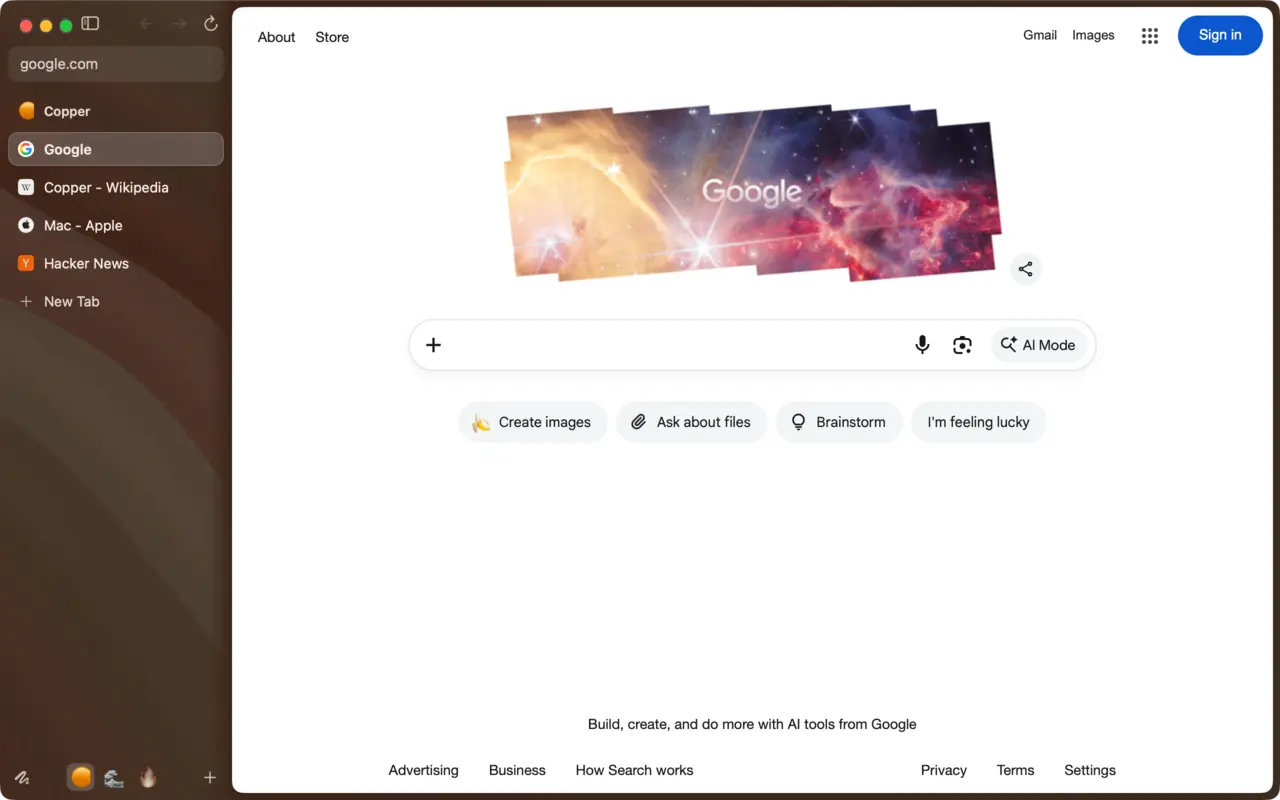
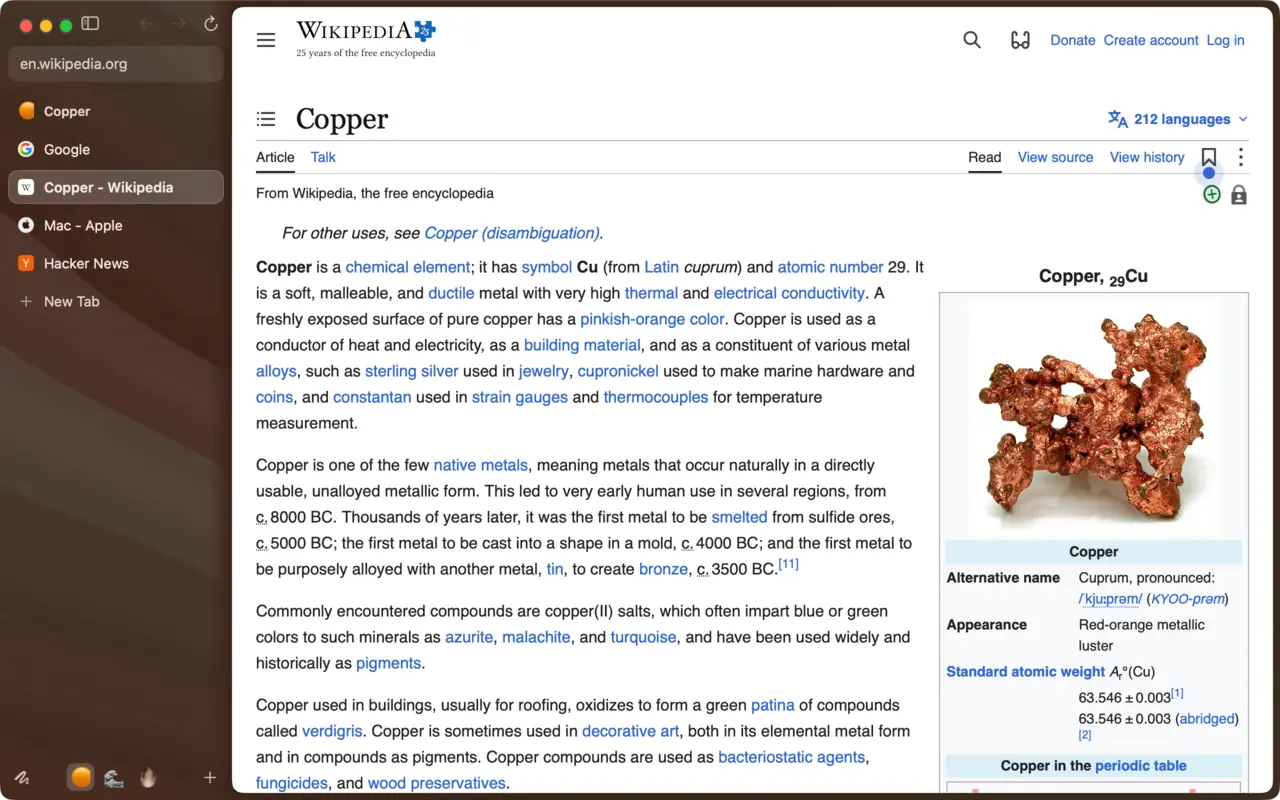
Site: council round 1 fixes
- Hero window now shows Wikipedia's Copper article (was google.com), so the page does not lead with another brand.
- Sidebar recordings: no letterbox; one unlabelled-chrome control for the three (click, Space, Enter), named Pause/Play; the tile link moved to its heading.
- Recordings are role=button with a live Pause/Play name.
- Two recordings sat 40 px inside the grid (default figure margin); reset.
- Phone hero: darker veil and a solid quip chip for contrast over the art.
- Privacy copy and table now name what Jev sends to your model provider.
- Commands wrap at slashes and keep '| sh' together; glows fade before the edge; smaller posters.

diff --git a/site/index.html b/site/index.html
@@ -148,7 +148,8 @@ em.g, h1 em, h2 em, .t h3 em {
   background: var(--surface); border: 1px solid var(--line);
   font: 14px/1.45 var(--mono); color: var(--ink);
 }
-.cmd code { flex: 1; min-width: 0; overflow-wrap: anywhere; }
+.cmd code { flex: 1; min-width: 0; overflow-wrap: break-word; }
+.nw { white-space: nowrap; }
 .cmd code::before { content: "$ "; color: var(--ink-2); }
 .cmd .nw { white-space: nowrap; }
 .cmd.plain code::before { content: none; }
@@ -381,7 +382,7 @@ kbd {
 .tools { display: flex; flex-wrap: wrap; gap: 6px; margin-top: 4px; }
 .tools code { font-size: 13px; }
 .scenario { margin-top: clamp(56px, 7vw, 88px); }
-.scenario > .reel { margin-top: 28px; }
+.scenario > .reel-fig { margin-top: 28px; }
 .scenario-body { display: grid; grid-template-columns: minmax(0, .92fr) minmax(0, 1.08fr); gap: clamp(28px, 5vw, 64px); align-items: start; margin-top: 36px; }
 .story { display: grid; gap: 14px; }
 .story > p { color: var(--ink-2); font-size: 16px; }
@@ -518,10 +519,10 @@ html:not(.js) .dl-panel[hidden] { display: block; }
 }
 .hero-stage::after {
   content: ""; position: absolute; inset: 0; z-index: -2;
-  background: radial-gradient(50% 40% at 0% 60%, var(--glow1), transparent 70%), radial-gradient(45% 40% at 100% 85%, var(--glow2), transparent 70%);
+  background: radial-gradient(50% 40% at 0% 60%, var(--glow1), transparent 70%), radial-gradient(45% 40% at 100% 62%, var(--glow2), transparent 70%);
 }
 .hero {
-  --bleed: clamp(0px, (100vw - var(--w)) / 2 - 24px, 300px);
+  --bleed: clamp(0px, (100vw - var(--w)) / 2 - 56px, 280px);
   display: grid; grid-template-columns: minmax(0, 29rem) minmax(0, 1fr); grid-template-areas: "copy shot" "meta shot"; column-gap: clamp(28px, 3.2vw, 44px);
   padding-top: clamp(44px, 8vh, 96px);
 }
@@ -559,7 +560,7 @@ html:not(.js) .dl-panel[hidden] { display: block; }
   background: var(--tile); box-shadow: inset 0 1px 0 rgba(255, 255, 255, .06);
   color: var(--ink); text-decoration: none; transition: border-color .2s ease, transform .2s cubic-bezier(.23, 1, .32, 1);
 }
-@media (hover: hover) and (pointer: fine) { a.t:hover { border-color: var(--line-2); transform: translateY(-2px); } }
+@media (hover: hover) and (pointer: fine) { a.t:hover, .t-spaces:hover { border-color: var(--line-2); transform: translateY(-2px); } }
 a.t:active { transform: scale(.99); }
 .t h3 { font: 650 26px/1.12 var(--display); letter-spacing: -.022em; max-width: 20em; position: relative; }
 .t p { color: var(--ink-2); font-size: 15px; line-height: 1.42; margin-top: 8px; max-width: 30em; position: relative; }
@@ -574,7 +575,11 @@ a.t:active { transform: scale(.99); }
 .t-spaces { grid-column: 1 / 7; grid-row: 1 / 3; padding: 34px 36px 0; background: linear-gradient(160deg, rgba(255, 138, 76, .16), rgba(255, 138, 76, .02) 45%), var(--tile); }
 .t-spaces h3 { font-size: clamp(30px, 1.2rem + 1.6vw, 44px); line-height: 1.04; letter-spacing: -.03em; max-width: 11em; }
 .t-spaces p { font-size: 16.5px; max-width: 26em; }
-.sides { display: flex; gap: 14px; margin-top: 28px; }
+.sides { position: relative; z-index: 2; display: flex; align-items: flex-start; gap: 14px; margin-top: 28px; cursor: pointer; border-radius: 14px 14px 0 0; }
+.sides:focus-visible { outline-offset: -3px; }
+.t-spaces h3 a { color: inherit; text-decoration: none; }
+.t-spaces h3 a::after { content: ""; position: absolute; inset: 0; z-index: 1; }
+.t-spaces h3 { position: static; }
 .sides video { width: calc((100% - 28px) / 3); border-radius: 14px 14px 0 0; border: 1px solid var(--line); box-shadow: var(--shadow); background: #15100D; }
 .sides video:nth-child(2) { margin-top: 22px; }
 .sides video:nth-child(3) { margin-top: 44px; }
@@ -589,7 +594,7 @@ a.t:active { transform: scale(.99); }
 .otp { position: absolute; top: 22px; right: 22px; display: flex; gap: 5px; }
 .otp span { width: 26px; height: 34px; border-radius: 7px; background: var(--term-bg); border: 1px solid rgba(95, 227, 204, .45); display: grid; place-items: center; font: 600 17px/1 var(--mono); color: #5FE3CC; }
 .t-cloud { grid-column: 1 / 6; grid-row: 3; background: linear-gradient(20deg, rgba(61, 214, 190, .13), rgba(61, 214, 190, .01) 60%), var(--tile); }
-.t-term { margin-top: auto; padding: 14px 16px; border-radius: 12px; background: var(--term-bg); border: 1px solid rgba(255, 255, 255, .06); font: 12.5px/1.6 var(--mono); color: var(--term-ink); overflow-wrap: anywhere; }
+.t-term { margin-top: auto; padding: 14px 16px; border-radius: 12px; background: var(--term-bg); border: 1px solid rgba(255, 255, 255, .06); font: 12.5px/1.6 var(--mono); color: var(--term-ink); overflow-wrap: break-word; }
 .t-term .d { color: var(--term-dim); }
 .t-term .a { color: #5FE3CC; }
 .t-canvas { grid-column: 6 / 10; grid-row: 3; background: linear-gradient(160deg, rgba(255, 192, 122, .10), rgba(255, 192, 122, .01) 55%), var(--tile); }
@@ -617,7 +622,7 @@ h2, .sec-head h2, .sec-head .h2 { font-size: clamp(2.1rem, 1.3rem + 2.6vw, 3.3re
 .feature-copy > p + p { margin-top: -4px; }
 .feature-copy .cmd { margin-top: 4px; }
 
-.media { margin: 0; }
+.media, .reel-fig { margin: 0; }
 .frame, .reel {
   position: relative; border-radius: 20px; overflow: hidden; background: #15100D;
   box-shadow: 0 0 0 1px var(--line), var(--shadow);
@@ -648,7 +653,7 @@ h2, .sec-head h2, .sec-head .h2 { font-size: clamp(2.1rem, 1.3rem + 2.6vw, 3.3re
 
 /* ---------- outro (stage) ---------- */
 .outro { margin-top: clamp(96px, 11vw, 144px); padding-block: clamp(80px, 10vw, 128px); overflow: hidden; }
-.outro::before { content: ""; position: absolute; inset: 0; z-index: -1; background: radial-gradient(45% 60% at 0% 100%, var(--glow1), transparent 70%), radial-gradient(40% 60% at 100% 0%, var(--glow2), transparent 70%); }
+.outro::before { content: ""; position: absolute; inset: 0; z-index: -1; background: radial-gradient(45% 60% at 0% 100%, var(--glow1), transparent 70%), radial-gradient(40% 60% at 100% 28%, var(--glow2), transparent 70%); }
 .outro .feature-copy > p { font-size: 1.15rem; }
 .repos { display: flex; flex-wrap: wrap; gap: 8px; list-style: none; margin: 4px 0 0; padding: 0; }
 .repos a { display: inline-flex; align-items: center; min-height: 40px; padding: 0 14px; border-radius: 10px; border: 1px solid var(--line-2); background: var(--tile); font: 500 14px/1.3 var(--mono); color: #5FE3CC; text-decoration: none; overflow-wrap: anywhere; transition: border-color .15s ease; }
@@ -724,7 +729,8 @@ footer .wrap { display: flex; flex-wrap: wrap; align-items: center; justify-cont
   .hero-shot { margin-top: 32px; }
   .hero .meta { display: flex; }
   .hero .hero-actions .cmd { display: none; }
-  .hero-stage::before { background: linear-gradient(180deg, rgba(12, 10, 9, .55), rgba(12, 10, 9, .8) 60%), url(assets/art-liquid.webp) 70% 0 / cover no-repeat; }
+  .hero-stage::before { background: linear-gradient(180deg, rgba(12, 10, 9, .78), rgba(12, 10, 9, .88) 60%), url(assets/art-liquid.webp) 70% 0 / cover no-repeat; }
+  .quip { background: rgba(20, 14, 10, .72); }
   .manifest li { grid-template-columns: 15px minmax(0, 1fr); }
   .manifest li small { grid-column: 2; text-align: left; }
   .hero-actions .btn { flex: 1 1 100%; justify-content: center; }
@@ -805,24 +811,25 @@ footer .wrap { display: flex; flex-wrap: wrap; align-items: center; justify-cont
       </div>
       </div>
       <picture class="hero-shot">
-        <source media="(max-width: 640px)" srcset="assets/copper-hero-sm.webp" width="1280" height="1120">
-        <img src="assets/copper-hero-1920.webp" srcset="assets/copper-hero-1280.webp 1280w, assets/copper-hero-1920.webp 1920w, assets/copper-hero-2560.webp 2560w" sizes="(max-width: 1100px) 92vw, 56vw" width="2560" height="1600" fetchpriority="high" decoding="async" alt="The Copper window. A sidebar in the Copper space's warm animated theme holds the address and four tabs: Google, Copper on Wikipedia, Mac on apple.com and Hacker News, with the three spaces along the bottom. The page fills the rest of the window, with no toolbar above it.">
+        <source media="(max-width: 640px)" srcset="assets/copper-hero-sm-720.webp 720w, assets/copper-hero-sm.webp 1280w" sizes="92vw" width="1280" height="1120">
+        <img src="assets/copper-hero-1920.webp" srcset="assets/copper-hero-1280.webp 1280w, assets/copper-hero-1920.webp 1920w" sizes="(max-width: 1100px) 92vw, 56vw" width="1920" height="1200" fetchpriority="high" alt="The Copper window on Wikipedia's article about copper. A sidebar in the Copper space's warm animated theme holds the address and four tabs: Google, Copper on Wikipedia, Mac on apple.com and Hacker News, with the three spaces along the bottom. The page fills the rest of the window, with no toolbar above it.">
       </picture>
       <p class="meta"><span>macOS 14 or later</span><span>Apple Silicon &amp; Intel</span><span>Windows &amp; Linux too</span><span>No account</span></p>
     </section>
 
-    <section class="wrap" aria-label="Copper at a glance">
+    <section class="wrap" aria-labelledby="glance-title">
+      <h2 class="sr" id="glance-title">Copper at a glance</h2>
       <div class="bento">
-        <a class="t t-spaces" href="#spaces">
+        <div class="t t-spaces">
           <span class="t-kick"><img src="assets/icon-96.webp" alt="" width="28" height="28">Copper for macOS</span>
-          <h3>Spaces with <em>animated sidebars.</em></h3>
+          <h3><a href="#spaces">Spaces with <em>animated sidebars.</em></a></h3>
           <p>Split view, ⌘K, folders, Favorites, Today and Saved. WebKit underneath, no account.</p>
           <span class="sides" aria-hidden="true">
             <video class="side" muted loop playsinline preload="none" width="336" height="840" poster="assets/side-copper.webp" data-src="assets/side-copper.mp4"></video>
             <video class="side" muted loop playsinline preload="none" width="336" height="840" poster="assets/side-patina.webp" data-src="assets/side-patina.mp4"></video>
             <video class="side" muted loop playsinline preload="none" width="336" height="840" poster="assets/side-ember.webp" data-src="assets/side-ember.mp4"></video>
           </span>
-        </a>
+        </div>
         <a class="t t-agents" href="#agents">
           <div>
             <h3>We draw where <em>your agents</em> go.</h3>
@@ -832,7 +839,7 @@ footer .wrap { display: flex; flex-wrap: wrap; align-items: center; justify-cont
         </a>
         <a class="t t-jev" href="#jev">
           <span class="t-big">200<small>ms</small></span>
-          <h3>Jev ultrafast, <em>your keys.</em></h3>
+          <h3>Jev, the agent inside. <em>Your keys.</em></h3>
           <ul class="chips"><li>Claude account</li><li>any OpenAI-compatible gateway</li></ul>
         </a>
         <a class="t t-bw" href="#bitwarden">
@@ -843,7 +850,7 @@ footer .wrap { display: flex; flex-wrap: wrap; align-items: center; justify-cont
         <a class="t t-cloud" href="#cloud">
           <h3>Run your own <em>Copper Cloud.</em></h3>
           <p>One Rust binary and Postgres. Syncs spaces, tabs, bookmarks and history between Macs.</p>
-          <span class="t-term" aria-hidden="true"><span class="d">$</span> curl -fsSL …/copper-cloud/main/install.sh | sudo sh<br><span class="d">Admin portal:</span> https://203.0.113.10/<br><span class="d">Access mode:</span> directory<br><span class="a">copper-cloud://203.0.113.10:443/#k=ck_…&amp;fp=…</span></span>
+          <span class="t-term" aria-hidden="true"><span class="d">$</span> curl -fsSL …/<wbr>copper-cloud/<wbr>main/<wbr>install.sh <span class="nw">| sudo sh</span><br><span class="d">Admin portal:</span> https://203.0.113.10/<br><span class="d">Access mode:</span> directory<br><span class="a">copper-cloud://203.0.113.10:443/#k=ck_…&amp;fp=…</span></span>
         </a>
         <a class="t t-canvas" href="#canvas">
           <h3>Multiplayer <em>canvas</em> in a tab.</h3>
@@ -933,7 +940,7 @@ footer .wrap { display: flex; flex-wrap: wrap; align-items: center; justify-cont
     <div class="quiet">
       <div class="sec-head">
         <h2 id="quiet-title">Quiet by default.</h2>
-        <p>No toolbar, no start page, no sidebar of suggestions, no account to sign into. The things people install extensions for are already here, each one keystroke away.</p>
+        <p>No toolbar, no start page, no feed of suggestions, no account to sign into. The things people install extensions for are already here, each one keystroke away.</p>
       </div>
       <figure class="reel-fig">
         <div class="reel">
@@ -985,7 +992,7 @@ footer .wrap { display: flex; flex-wrap: wrap; align-items: center; justify-cont
       </figure>
     </div>
     <div class="note-row">
-      <h3>Chrome extensions, without Chrome</h3>
+      <h3>Chrome extensions run here</h3>
       <p>Paste a Chrome Web Store link, or press Add on the extension's page. It runs on WebKit's own extension engine, the one Safari uses, and Copper fills in the Chrome APIs WebKit lacks. macOS&nbsp;15.4 or later.</p>
     </div>
   </section>
@@ -1167,7 +1174,7 @@ Jev said <span class="ok">DONE</span>, 96% sure
         <span class="kicker">Copper Cloud</span>
         <h2 id="cloud-title">Run your own <em>Copper Cloud.</em></h2>
         <p>Copper Cloud is the server half: one Rust binary and Postgres, installed with one command on any Linux machine, or with Terraform on AWS. It syncs spaces, tabs, bookmarks and history between your Macs and hosts live canvas rooms.</p>
-        <div class="cmd"><code>curl -fsSL https://raw.githubusercontent.com/copper-browser/copper-cloud/main/install.sh | sudo sh</code><button class="copy" type="button" data-copy="curl -fsSL https://raw.githubusercontent.com/copper-browser/copper-cloud/main/install.sh | sudo sh" aria-label="Copy the Copper Cloud install command"><svg class="i-copy" aria-hidden="true"><use href="#i-copy"/></svg><svg class="i-check" aria-hidden="true"><use href="#i-check"/></svg><span>Copy</span></button></div>
+        <div class="cmd"><code>curl -fsSL https://raw.githubusercontent.com/<wbr>copper-browser/<wbr>copper-cloud/<wbr>main/<wbr>install.sh <span class="nw">| sudo sh</span></code><button class="copy" type="button" data-copy="curl -fsSL https://raw.githubusercontent.com/copper-browser/copper-cloud/main/install.sh | sudo sh" aria-label="Copy the Copper Cloud install command"><svg class="i-copy" aria-hidden="true"><use href="#i-copy"/></svg><svg class="i-check" aria-hidden="true"><use href="#i-check"/></svg><span>Copy</span></button></div>
         <ul class="facts">
           <li><span><strong>Off until you turn it on,</strong> and it never carries passwords. You pick what syncs.</span></li>
           <li><span><strong>Pinned by its certificate.</strong> Copper shows the fingerprint before it sends anything.</span></li>
@@ -1185,7 +1192,7 @@ Jev said <span class="ok">DONE</span>, 96% sure
     <div class="sec-head">
       <span class="kicker">Privacy</span>
       <h2 id="privacy-title">On your Mac, unless you <em>say otherwise.</em></h2>
-      <p>The only things that leave your Mac are the pages you ask for, their icons, and one small request a day to see whether there is a newer version. Copper Cloud is the one exception, and it stays off until you link a server you run.</p>
+      <p>What leaves your Mac: the pages you ask for, their icons, and one small request a day to see whether there is a newer version. When you run Jev, what it reads on the page goes to the model provider you chose. Copper Cloud stays off until you link a server you run.</p>
     </div>
     <div class="never">
       <div><strong>No account</strong><span>Nothing to sign into with us. Copper Cloud accounts live on your own server.</span></div>
@@ -1202,6 +1209,7 @@ Jev said <span class="ok">DONE</span>, 96% sure
         <tr><th scope="row">Cookies and site data</th><td data-l="Where">WebKit's own store for the app</td><td data-l="Who">The sites that set them, as in any browser.</td></tr>
         <tr><th scope="row">Extensions</th><td data-l="Where">Unpacked in Copper's own folder, their data in WebKit's extension store</td><td data-l="Who">Each extension, within the permissions you accepted.</td></tr>
         <tr><th scope="row">Copper Cloud, only if you link it</th><td data-l="Where">The parts you switched on, on the instance you linked, encrypted at rest with your account's key</td><td data-l="Who">You, and that instance's operator.</td></tr>
+        <tr><th scope="row">Jev, only while it runs</th><td data-l="Where">The page's controls and your goal, sent to the model you picked: your Claude account or your gateway</td><td data-l="Who">You, and that provider.</td></tr>
         <tr><th scope="row">Anything else</th><td data-l="Where">Nowhere.</td><td data-l="Who">No one.</td></tr>
       </tbody>
     </table>
@@ -1222,7 +1230,7 @@ Jev said <span class="ok">DONE</span>, 96% sure
     <div class="dl-panel" id="dl-mac" role="tabpanel" aria-labelledby="dl-tab-here">
     <div class="notice" id="build-from-source">
       <p><strong>A notarized Mac build is coming very soon.</strong> For now, build Copper yourself from source. You need macOS 14 or later and Xcode 16.</p>
-      <div class="cmd"><code>git clone https://github.com/copper-browser/Copper.git &amp;&amp; cd Copper &amp;&amp; ./build.sh &amp;&amp; open build/Copper.app</code><button class="copy" type="button" data-copy="git clone https://github.com/copper-browser/Copper.git &amp;&amp; cd Copper &amp;&amp; ./build.sh &amp;&amp; open build/Copper.app" aria-label="Copy the build command"><svg class="i-copy" aria-hidden="true"><use href="#i-copy"/></svg><svg class="i-check" aria-hidden="true"><use href="#i-check"/></svg><span>Copy</span></button></div>
+      <div class="cmd"><code>git clone https://github.com/<wbr>copper-browser/<wbr>Copper.git &amp;&amp; cd Copper &amp;&amp; ./<wbr>build.sh &amp;&amp; open build/<wbr>Copper.app</code><button class="copy" type="button" data-copy="git clone https://github.com/copper-browser/Copper.git &amp;&amp; cd Copper &amp;&amp; ./build.sh &amp;&amp; open build/Copper.app" aria-label="Copy the build command"><svg class="i-copy" aria-hidden="true"><use href="#i-copy"/></svg><svg class="i-check" aria-hidden="true"><use href="#i-check"/></svg><span>Copy</span></button></div>
       <p>It builds Copper.app into the build folder and opens it. The downloads below work today too and are not notarized yet. <a href="https://github.com/copper-browser/Copper#building-it">Source and build notes on GitHub</a></p>
     </div>
     <div class="install">
@@ -1236,7 +1244,7 @@ Jev said <span class="ok">DONE</span>, 96% sure
       <div class="method">
         <h3>One-line installer</h3>
         <div class="method-body">
-          <div class="cmd"><code>curl -fsSL https://github.com/copper-browser/Copper/releases/latest/download/copper-install.sh | sh</code><button class="copy" type="button" data-copy="curl -fsSL https://github.com/copper-browser/Copper/releases/latest/download/copper-install.sh | sh" aria-label="Copy the installer command"><svg class="i-copy" aria-hidden="true"><use href="#i-copy"/></svg><svg class="i-check" aria-hidden="true"><use href="#i-check"/></svg><span>Copy</span></button></div>
+          <div class="cmd"><code>curl -fsSL https://github.com/<wbr>copper-browser/<wbr>Copper/<wbr>releases/<wbr>latest/<wbr>download/<wbr>copper-install.sh <span class="nw">| sh</span></code><button class="copy" type="button" data-copy="curl -fsSL https://github.com/copper-browser/Copper/releases/latest/download/copper-install.sh | sh" aria-label="Copy the installer command"><svg class="i-copy" aria-hidden="true"><use href="#i-copy"/></svg><svg class="i-check" aria-hidden="true"><use href="#i-check"/></svg><span>Copy</span></button></div>
           <p>The same build, without Homebrew.</p>
         </div>
       </div>
@@ -1284,7 +1292,7 @@ Jev said <span class="ok">DONE</span>, 96% sure
       <div class="method">
         <h3>One-line installer <small>Recommended</small></h3>
         <div class="method-body">
-          <div class="cmd"><code>curl -fsSL https://github.com/copper-browser/copper-linux/releases/latest/download/install.sh | sh</code><button class="copy" type="button" data-copy="curl -fsSL https://github.com/copper-browser/copper-linux/releases/latest/download/install.sh | sh" aria-label="Copy the Linux install command"><svg class="i-copy" aria-hidden="true"><use href="#i-copy"/></svg><svg class="i-check" aria-hidden="true"><use href="#i-check"/></svg><span>Copy</span></button></div>
+          <div class="cmd"><code>curl -fsSL https://github.com/<wbr>copper-browser/<wbr>copper-linux/<wbr>releases/<wbr>latest/<wbr>download/<wbr>install.sh <span class="nw">| sh</span></code><button class="copy" type="button" data-copy="curl -fsSL https://github.com/copper-browser/copper-linux/releases/latest/download/install.sh | sh" aria-label="Copy the Linux install command"><svg class="i-copy" aria-hidden="true"><use href="#i-copy"/></svg><svg class="i-check" aria-hidden="true"><use href="#i-check"/></svg><span>Copy</span></button></div>
           <p>x86_64 or aarch64. On Ubuntu 24.04+ and Debian 13+ it installs the <code class="inline">.deb</code> with apt, video codecs included; everywhere else a Flatpak for your user. Run it again to upgrade.</p>
         </div>
       </div>
@@ -1627,33 +1635,37 @@ Jev said <span class="ok">DONE</span>, 96% sure
     });
   })();
 
-  /* ---------- recordings: fetched when near, play in view, a click (or Space on a focused one) pauses, a still under reduced motion ---------- */
+  /* ---------- recordings: fetched when near, play in view, a still under reduced motion.
+     Each is a button with no chrome: a click, Space or Enter pauses or plays it, and its name says which. ---------- */
   var calm = window.matchMedia('(prefers-reduced-motion: reduce)');
   $$('video.loop, video.side').forEach(function (v) {
-    var seen = false, held = false;
+    var side = v.classList.contains('side'), ctl = side ? v.parentNode : v;   // the three sidebars share one control
+    var about = side ? '' : v.getAttribute('aria-label'), seen = false, user = '';
+    function name() { ctl.setAttribute('aria-label', (v.paused ? 'Play ' : 'Pause ') + (side ? 'the sidebar recordings' : 'the recording: ' + about)); }
     function arm() {
       if (v.dataset.armed) return;
       v.dataset.armed = '1';
       if (v.dataset.src) v.src = v.dataset.src; else window.copperMedia(v);
     }
     function settle() {
-      if (!v.dataset.armed || calm.matches || held || !seen) { v.pause(); return; }
+      if (!v.dataset.armed || !seen || user === 'pause' || (calm.matches && user !== 'play')) { v.pause(); return; }
       var p = v.play(); if (p && p.catch) p.catch(function () {});
     }
-    if (v.classList.contains('loop')) {
-      v.tabIndex = 0;
-      v.addEventListener('click', function () { held = !v.paused; settle(); });
-      v.addEventListener('keydown', function (e) { if (e.key === ' ' || e.key === 'Enter') { e.preventDefault(); v.click(); } });
+    ctl.addEventListener('click', function () { user = v.paused ? 'play' : 'pause'; arm(); settle(); });
+    if (!ctl.hasAttribute('role')) {
+      ctl.setAttribute('role', 'button'); ctl.tabIndex = 0; ctl.removeAttribute('aria-hidden');
+      ctl.addEventListener('keydown', function (e) { if (e.key === ' ' || e.key === 'Enter') { e.preventDefault(); ctl.click(); } });
     }
+    v.addEventListener('play', name); v.addEventListener('pause', name); name();
     if ('IntersectionObserver' in window) {
       new IntersectionObserver(function (es, io) {
         if (es.some(function (e) { return e.isIntersecting; })) { io.disconnect(); arm(); settle(); }
       }, { rootMargin: '900px 0px' }).observe(v);
       new IntersectionObserver(function (es) {
         es.forEach(function (e) { seen = e.isIntersecting; settle(); });
-      }, { rootMargin: '120px 0px' }).observe(v);
+      }).observe(v);
     } else { arm(); seen = true; settle(); }
-    if (calm.addEventListener) calm.addEventListener('change', function () { held = false; settle(); });
+    if (calm.addEventListener) calm.addEventListener('change', function () { user = ''; settle(); });
   });
 
   /* ---------- the little Copper window ---------- */

diff --git a/docs/website.md b/docs/website.md
@@ -56,8 +56,10 @@ exists) and add `site.yml`.
   picks the pair that matches.
 - Videos are `<video class="loop" muted loop playsinline preload="none">` with the file and
   poster in `data-*` attributes: the script at the end of the page sets them when the video
-  comes within 900 px of the screen, plays it while it is on screen, and pauses it on a click.
-  Under `prefers-reduced-motion` only the poster shows. There is no pause button.
+  comes within 900 px of the screen and plays it while it is on screen. There is no pause button:
+  the recording itself is the control (`role="button"`, named "Pause…" or "Play…"), so a click,
+  Space or Enter toggles it. The bento's three sidebars share one control. Under
+  `prefers-reduced-motion` only the poster shows until someone presses play.
 - The hero image is the page's largest paint: `fetchpriority="high"`, never `loading="lazy"`,
   with `width`/`height` so nothing shifts. The source order in the hero is copy, window, meta,
   which is also the order on a phone; don't reorder it with CSS `order` (content that streams in
@@ -110,7 +112,7 @@ are using is never touched:
 
 | Asset | What it shows | Made with |
 |---|---|---|
-| `copper-hero-*.webp` | the whole window on google.com (phone: a 640×560 window on Wikipedia's Copper article), dark appearance, sidebar on | `launch.sh` with `SIZE=1280x800` (or `640x560`) → bench `window` → `cwebp`/`convert -quality 80`, alpha kept |
+| `copper-hero-*.webp` | the whole window on Wikipedia's Copper article (phone: the same page in a 640×560 window), dark appearance, sidebar on | `launch.sh` with `SIZE=1280x800` (or `640x560`) → bench `window` → `convert` to WebP at 1280 and 1920 wide, alpha kept (lossless: smaller than lossy for a page of text) |
 | `side-{copper,patina,ember}.mp4/.webp` | each space's sidebar: the animated theme and the selection moving between tabs | `launch.sh` with `SIZE=640x760` → `rec_sides.py` → crop the left 464 px, scale to 336×840, 24 fps, CRF 27–29, last 0.6 s dissolved into the first |
 | `copper-motion(-dark).mp4/.webp` | tab switch, ⌘K filtering, a space switch, tabs on top and back | `rec_motion.py` → `compose.py video` |
 | `copper-jev(-dark).mp4/.webp` | a real Jev run: "Search Wikipedia for patina and stop when the article is visible", with the driver timeline | `rec_jev.py` → `compose.py video` |

diff --git a/site/README.md b/site/README.md
@@ -8,14 +8,14 @@ served by GitHub Pages at `https://copper-browser.github.io/Copper/` and by Exow
   step, no external fonts, CDNs or trackers.
 - `assets/` — real captures of Copper, the app icon, favicons and the 1200×630 `og.png`
   social card:
-  - `copper-hero-{1280,1920,2560}.webp` + `copper-hero-sm.webp` — the hero: the whole Copper
-    window with a transparent surround (the phone one is a narrower window on Wikipedia).
+  - `copper-hero-{1280,1920}.webp` + `copper-hero-sm.webp` — the hero: the whole Copper
+    window on Wikipedia's Copper article, transparent surround (`-sm`: a narrower window for phones).
   - `side-{copper,patina,ember}.mp4` + `.webp` — the bento's three sidebars, each space's
     animated theme with the selection moving between tabs (loop + poster, about 70 KB each).
   - `copper-motion.mp4` + `copper-motion.webp` — tabs, ⌘K, spaces, tabs on top (loop + poster).
   - `copper-jev.mp4` + `copper-jev.webp` — Jev running one goal, driver timeline open.
   Videos are H.264, muted, `+faststart`. Nothing of a video is fetched until it is near the
-  screen; it plays only while on screen, a click pauses it, and under
+  screen; it plays only while on screen, a click (or Space/Enter) pauses it, and under
   `prefers-reduced-motion` only the poster shows.
 - `.nojekyll` — serve the files as they are.
 
